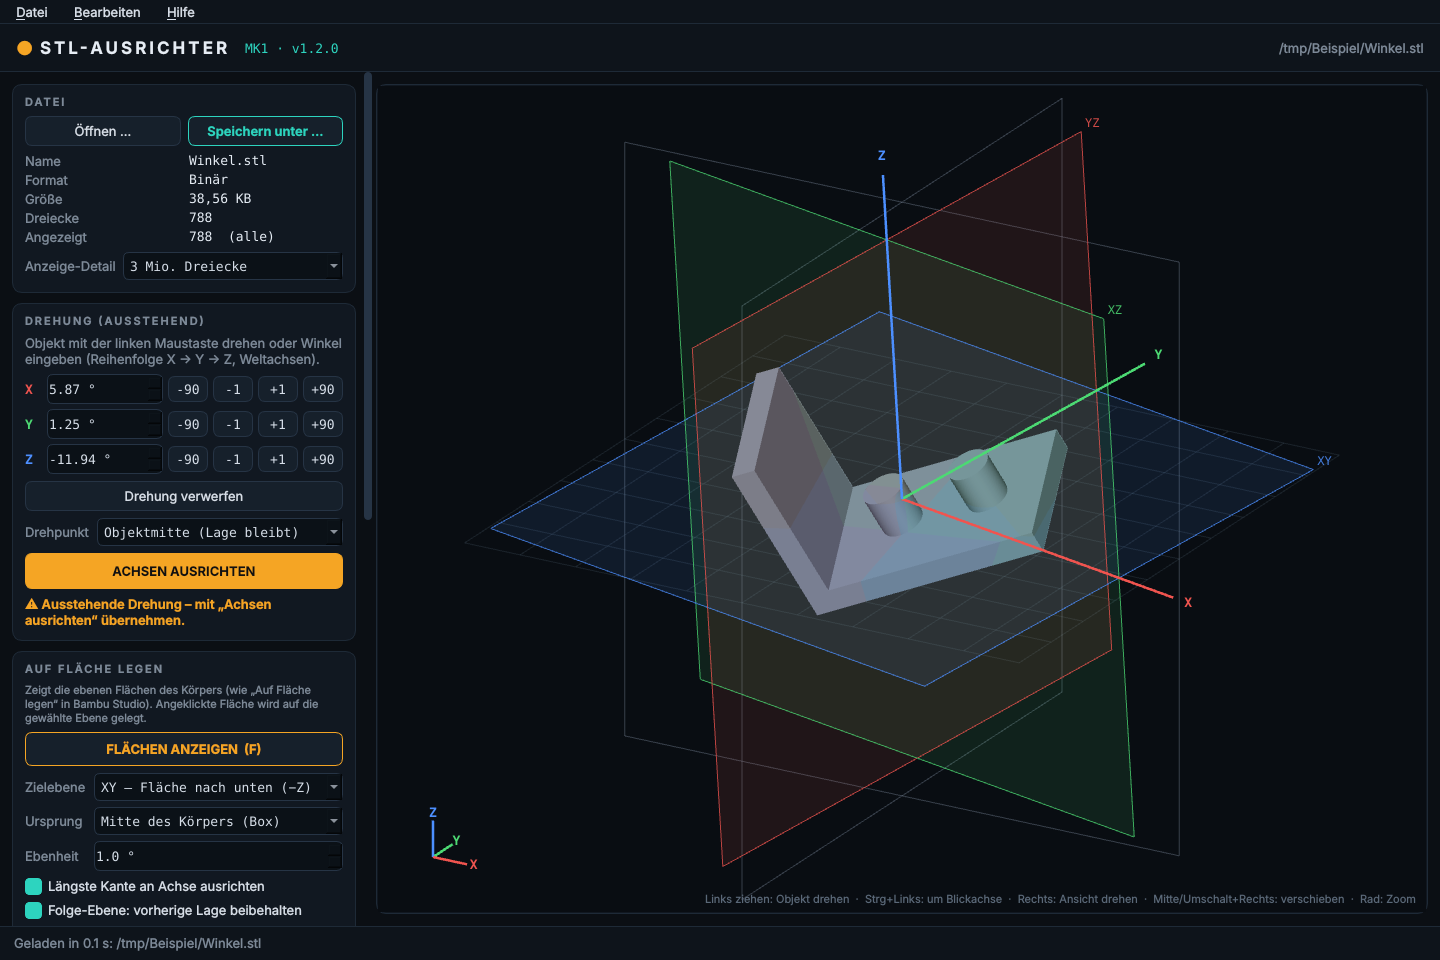
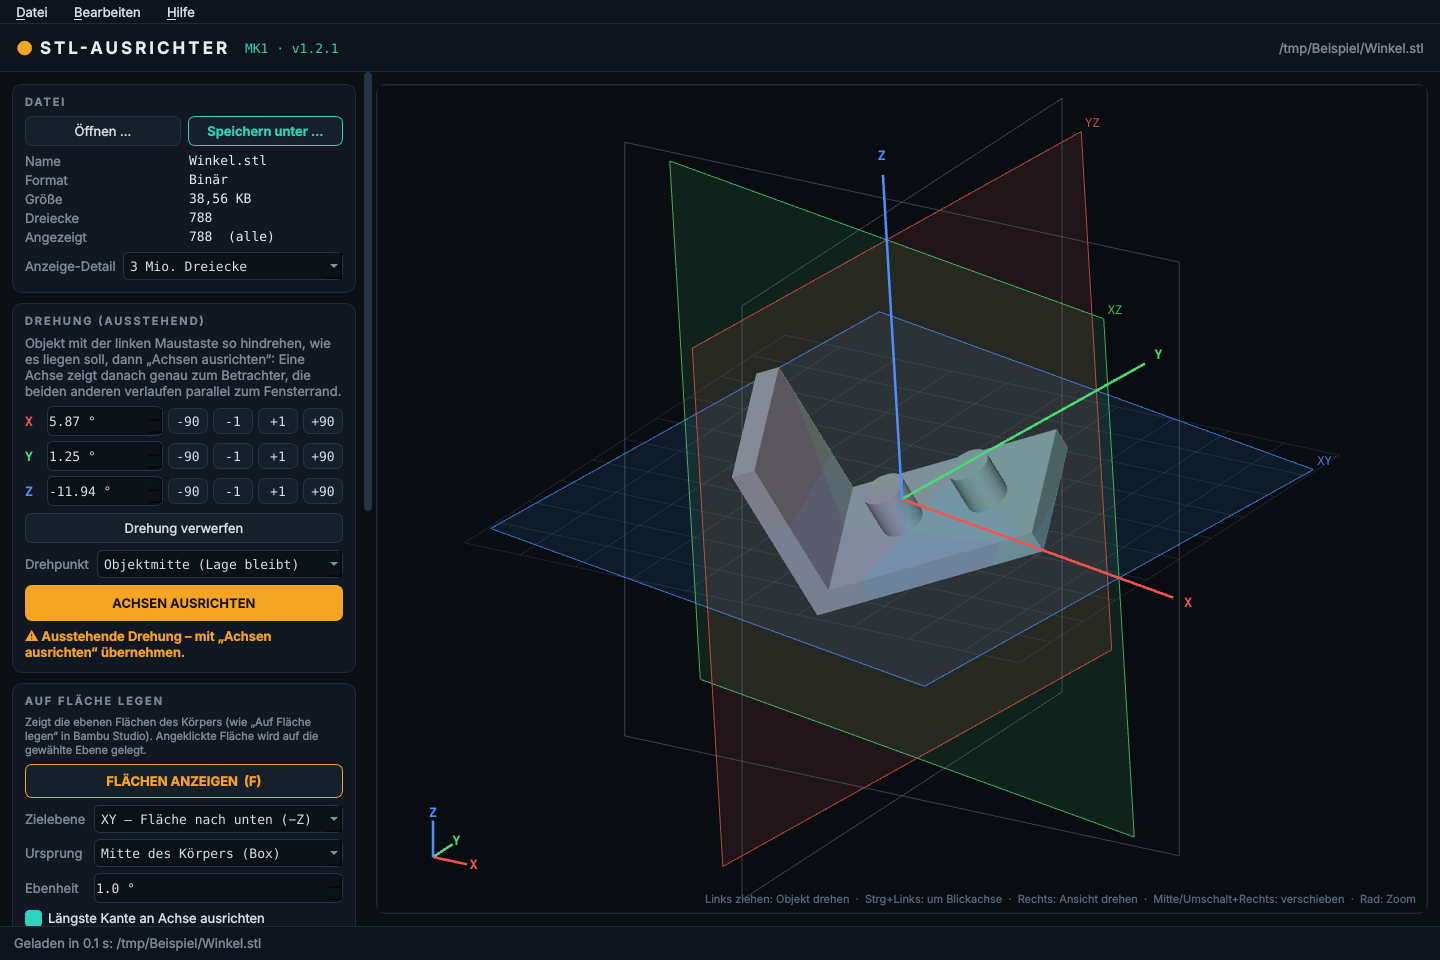
v1.2.1
STL-Ausrichter-MK1 v1.2.1 – Achsen an der Ansicht ausrichten

- „Achsen ausrichten“ richtet die Achsen jetzt an der aktuellen Ansicht aus:
  eine Achse zeigt exakt zum Betrachter, die beiden anderen verlaufen
  parallel zum Fensterrand
- Objekt bleibt dabei auf dem Bildschirm unverändert liegen, die Ansicht
  springt auf die passende Standardansicht
- Zuordnung der Achsen über die nächstliegende Achse, Richtung bleibt erhalten
- Kamera kann um die Blickachse gedreht werden, damit jede Ausrichtung
  exakt dargestellt werden kann
- Speichern mit offener Drehung übernimmt diese wie bisher ohne Ansichtswechsel
- Statusmeldung zeigt, welche Achse wohin zeigt; README und Hinweistexte angepasst

Changed region(s): [[0.0, 0.3438, 0.25, 0.9688]]

diff --git a/viewer.py b/viewer.py
@@ -176,6 +176,7 @@ class GLView(QOpenGLWidget):
         self.pivot_center = True
         # Kamera --------------------------------------------------------
         self.az, self.el = -55.0, 25.0
+        self.roll = 0.0                  # Drehung der Kamera um die Blickachse
         self.dist = 3.0
         self.target = np.zeros(3)
         self.ortho = True
@@ -332,13 +333,60 @@ class GLView(QOpenGLWidget):
         back = np.array([math.cos(el) * math.cos(az), math.cos(el) * math.sin(az), math.sin(el)])
         up = np.array([-math.sin(el) * math.cos(az), -math.sin(el) * math.sin(az), math.cos(el)])
         right = np.cross(up, back)
+        if self.roll:
+            Rr = rot_axis(back, self.roll)
+            right, up = Rr @ right, Rr @ up
         return right, up, back
+
+    def set_camera_basis(self, right, up, back):
+        """Kamera exakt auf eine vorgegebene Blickrichtung/Oben-Richtung stellen."""
+        back = np.asarray(back, float)
+        up = np.asarray(up, float)
+        bz = max(-1.0, min(1.0, back[2]))
+        self.el = math.degrees(math.asin(bz))
+        if abs(bz) > 1 - 1e-12:
+            self.el = 90.0 if bz > 0 else -90.0
+            # Oben-Richtung bei Draufsicht/Untersicht über den Azimut einstellen
+            self.az = math.degrees(math.atan2(-up[1], -up[0]) if bz > 0 else math.atan2(up[1], up[0]))
+        else:
+            self.az = math.degrees(math.atan2(back[1], back[0]))
+        self.roll = 0.0
+        _, u0, b0 = self.cam_basis()
+        self.roll = math.degrees(math.atan2(np.dot(np.cross(u0, up), b0), np.dot(u0, up)))
+        self.update()
 
     def set_view(self, name):
         presets = {"iso": (-55, 25), "vorne": (-90, 0), "hinten": (90, 0), "rechts": (0, 0),
                    "links": (180, 0), "oben": (-90, 90), "unten": (-90, -90)}
         self.az, self.el = presets[name]
+        self.roll = 0.0
         self.update()
+
+    def align_to_view(self):
+        """Achsen an der aktuellen Ansicht ausrichten.
+
+        Das Objekt bleibt auf dem Bildschirm unverändert liegen. Seine Achsen
+        werden so neu gesetzt, dass die Achse, die am ehesten zum Betrachter
+        zeigt, danach EXAKT zum Betrachter zeigt und die beiden anderen exakt
+        waagerecht bzw. senkrecht zum Fensterrand verlaufen.
+        Gibt (Achse→rechts, Achse→oben, Achse→Betrachter) als Text zurück."""
+        r, u, b = self.cam_basis()
+        M = np.column_stack([r, u, b])        # Bildschirm-Achsen in Weltkoordinaten
+        P = nearest_signed_permutation(M)     # nächstliegende Welt-Achsen
+        Q = P @ M.T                           # dreht Bildschirm-Rahmen auf Achsen-Rahmen
+        p = self.pivot()
+        target_rel = self.target - p
+        self.R_view = Q @ self.R_view         # Objekt (inkl. ausstehender Drehung) mitdrehen
+        self.bake()
+        # Kamera um denselben Drehpunkt mitdrehen -> Bild bleibt identisch
+        self.set_camera_basis(P[:, 0], P[:, 1], P[:, 2])
+        self.target = p + Q @ target_rel
+        self.update()
+        names = []
+        for k in range(3):
+            i = int(np.argmax(np.abs(P[:, k])))
+            names.append(("+" if P[i, k] > 0 else "−") + "XYZ"[i])
+        return names
 
     def fit(self):
         self.target = self.current_center()
@@ -680,6 +728,22 @@ class GLView(QOpenGLWidget):
         p = _stl_from_mime(e.mimeData())
         if p:
             self.fileDropped.emit(p)
+
+
+def nearest_signed_permutation(M):
+    """Nächstliegende Achsen-Matrix (nur 0/±1, Determinante +1) zu einer Drehmatrix."""
+    A = np.abs(M).copy()
+    P = np.zeros((3, 3))
+    for _ in range(3):
+        i, j = np.unravel_index(np.argmax(A), A.shape)
+        P[i, j] = 1.0 if M[i, j] >= 0 else -1.0
+        A[i, :] = -1
+        A[:, j] = -1
+    if np.linalg.det(P) < 0:
+        # unsicherste Zuordnung umdrehen
+        k = int(np.argmin([abs(M[np.argmax(np.abs(P[:, c])), c]) for c in range(3)]))
+        P[:, k] *= -1
+    return P
 
 
 def _stl_from_mime(md):

diff --git a/main.py b/main.py
@@ -335,8 +335,9 @@ class MainWindow(QMainWindow):
 
         # Karte: Drehung --------------------------------------------------
         c, l = card("Drehung (ausstehend)")
-        hint = QLabel("Objekt mit der linken Maustaste drehen oder Winkel eingeben "
-                      "(Reihenfolge X → Y → Z, Weltachsen).")
+        hint = QLabel("Objekt mit der linken Maustaste so hindrehen, wie es liegen soll, dann "
+                      "„Achsen ausrichten“: Eine Achse zeigt danach genau zum Betrachter, die "
+                      "beiden anderen verlaufen parallel zum Fensterrand.")
         hint.setObjectName("muted")
         hint.setWordWrap(True)
         l.addWidget(hint)
@@ -382,8 +383,9 @@ class MainWindow(QMainWindow):
         l.addLayout(piv)
         self.btn_bake = QPushButton("ACHSEN AUSRICHTEN")
         self.btn_bake.setObjectName("primary")
-        self.btn_bake.setToolTip("Übernimmt die aktuell angezeigte Lage: Die X/Y/Z-Achsen und\n"
-                                 "-Ebenen des Objekts werden gerade zur jetzigen Darstellung gestellt.")
+        self.btn_bake.setToolTip("Richtet die Achsen an der aktuellen Ansicht aus: Das Objekt bleibt so\n"
+                                 "liegen, wie es angezeigt wird. Eine Achse zeigt danach exakt zum\n"
+                                 "Betrachter, die beiden anderen verlaufen parallel zum Fensterrand.")
         l.addWidget(self.btn_bake)
         self.lbl_pending = QLabel("")
         self.lbl_pending.setObjectName("warn")
@@ -746,14 +748,14 @@ class MainWindow(QMainWindow):
         self.v_dims.setText(" × ".join(fmt_num(x, 2) for x in d))
 
     def bake(self):
+        """ACHSEN AUSRICHTEN: Achsen an der aktuellen Ansicht ausrichten."""
         if not self.info:
             return
-        if self.has_pending():
-            self._unlock()
-        self.view.bake()
+        self._unlock()
+        rr, uu, bb = self.view.align_to_view()
         self.update_dims()
-        self.lbl_status.setText("Achsen ausgerichtet – Objektebenen stehen jetzt gerade. "
-                                "Mit „Speichern unter …“ sichern.")
+        self.lbl_status.setText(f"Achsen an der Ansicht ausgerichtet: {bb} zeigt zum Betrachter, "
+                                f"{rr} nach rechts, {uu} nach oben. Mit „Speichern unter …“ sichern.")
 
     def reset_all(self):
         self.btn_lay.setChecked(False)
@@ -921,7 +923,8 @@ class MainWindow(QMainWindow):
             if r == QMessageBox.Cancel:
                 return False
             if r == QMessageBox.Yes:
-                self.bake()
+                self.view.bake()
+                self.update_dims()
         return True
 
     def save_dialog(self):

diff --git a/version.py b/version.py
@@ -1,2 +1,2 @@
 APP_NAME = "STL-Ausrichter-MK1"
-VERSION = "1.2.0"
+VERSION = "1.2.1"

diff --git a/README.md b/README.md
@@ -1,4 +1,4 @@
-# STL-Ausrichter-MK1 · v1.2.0
+# STL-Ausrichter-MK1 · v1.2.1
 
 STL-Dateien öffnen, frei im Raum drehen, die X/Y/Z-Achsen und -Ebenen gerade zur
 angezeigten Lage ausrichten und die Datei **strukturgleich** wieder speichern –
@@ -20,7 +20,7 @@ Das Programm ist **eine einzelne exe** – ohne daneben liegende Dateien oder Or
 | Ansicht verschieben | Mittlere Maustaste oder Umschalt + rechte Maustaste |
 | Zoom | Mausrad |
 | Genau drehen | Winkelfelder X/Y/Z oder Knöpfe −90 / −1 / +1 / +90 |
-| Lage übernehmen | **ACHSEN AUSRICHTEN** (Strg+Enter) |
+| Achsen an Ansicht ausrichten | **ACHSEN AUSRICHTEN** (Strg+Enter) |
 | Auf Fläche legen | **FLÄCHEN ANZEIGEN** (F) → Fläche anklicken · Esc beendet |
 | Ursprung in Körpermitte | „Ursprung jetzt in Körpermitte setzen“ |
 | Drehung verwerfen | Esc |
@@ -33,8 +33,12 @@ Angezeigt werden:
 * **Objekt-Ebenen XY / XZ / YZ** und **Objekt-Achsen X / Y / Z** (farbig, drehen mit dem Objekt)
 * **Welt-Referenz** (graues Gitter und Rahmen, fest)
 
-Nach „Achsen ausrichten“ liegen Objekt-Ebenen und Welt-Referenz deckungsgleich:
-die soeben angezeigte Lage ist jetzt die neue Grundlage des Objekts.
+**ACHSEN AUSRICHTEN** richtet die Achsen an der aktuellen Ansicht aus: Das Objekt bleibt auf dem
+Bildschirm genau so liegen, wie es angezeigt wird. Die Achse, die am ehesten zum Betrachter zeigt,
+zeigt danach **exakt zum Betrachter** (sie erscheint als Punkt); die beiden anderen verlaufen
+**exakt waagerecht bzw. senkrecht** zum Fensterrand. Die Ansicht springt dazu auf die passende
+Standardansicht (z. B. von vorne), ohne dass sich das Bild ändert.
+Zum Feinjustieren vorher: Strg + linke Maustaste dreht das Objekt um die Blickachse.
 
 **Drehpunkt**
 * *Objektmitte (Lage bleibt)* – das Objekt dreht um seine Mitte, seine Position im Raum bleibt erhalten.
@@ -127,6 +131,8 @@ python main.py [datei.stl]
 
 ## Versionen
 
+* **1.2.1** – „Achsen ausrichten“ richtet die Achsen jetzt an der Ansicht aus (eine Achse exakt
+  zum Betrachter, die anderen parallel zum Fensterrand); Kamera mit Drehung um die Blickachse.
 * **1.2.0** – „Auf Fläche legen“ (wie Bambu Studio) für XY/XZ/YZ mit Folge-Ebene,
   Kantenausrichtung und Ursprung in Körpermitte (Box oder Volumenschwerpunkt, exakt).
 * **1.1.0** – Eine einzelne exe; STEP-Umwandlung (aus STL-STEP-Konverter-MK1) und Vereinfachen
